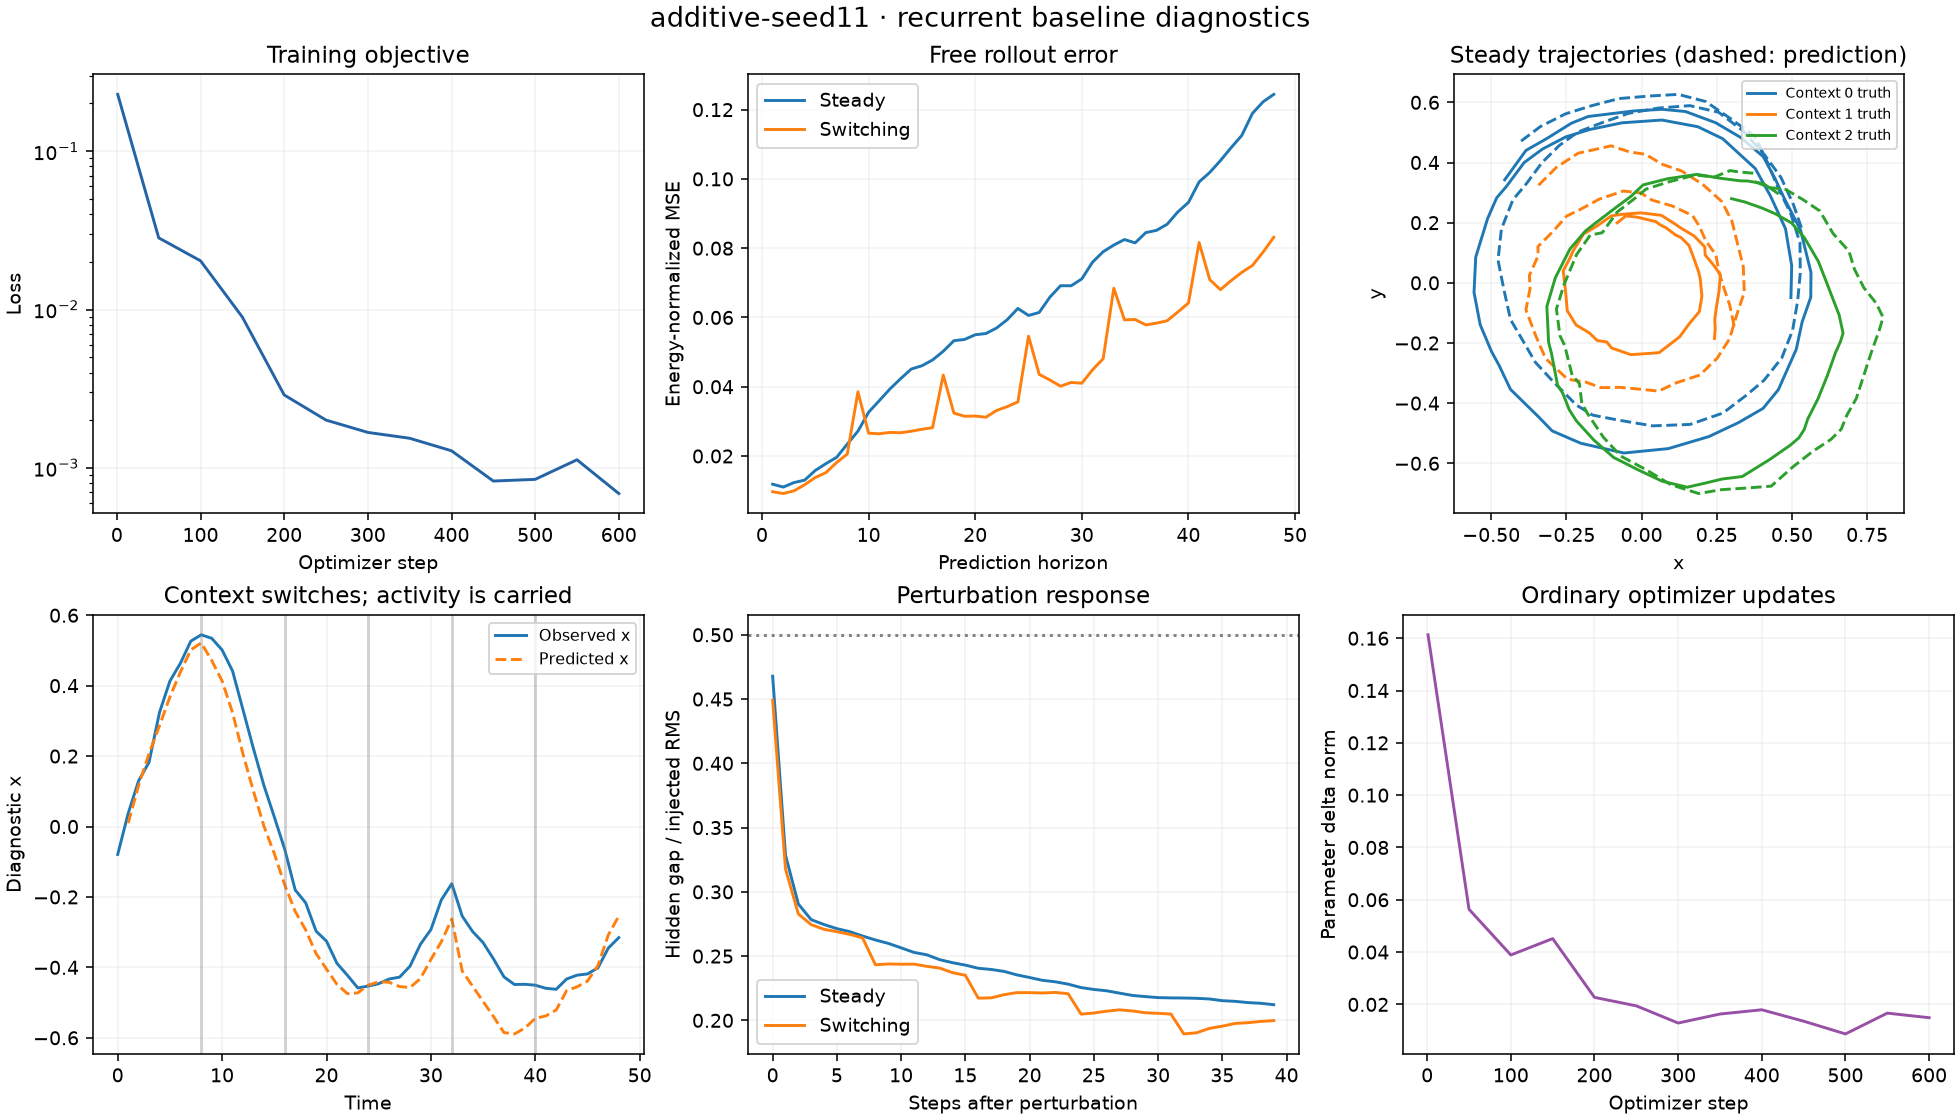
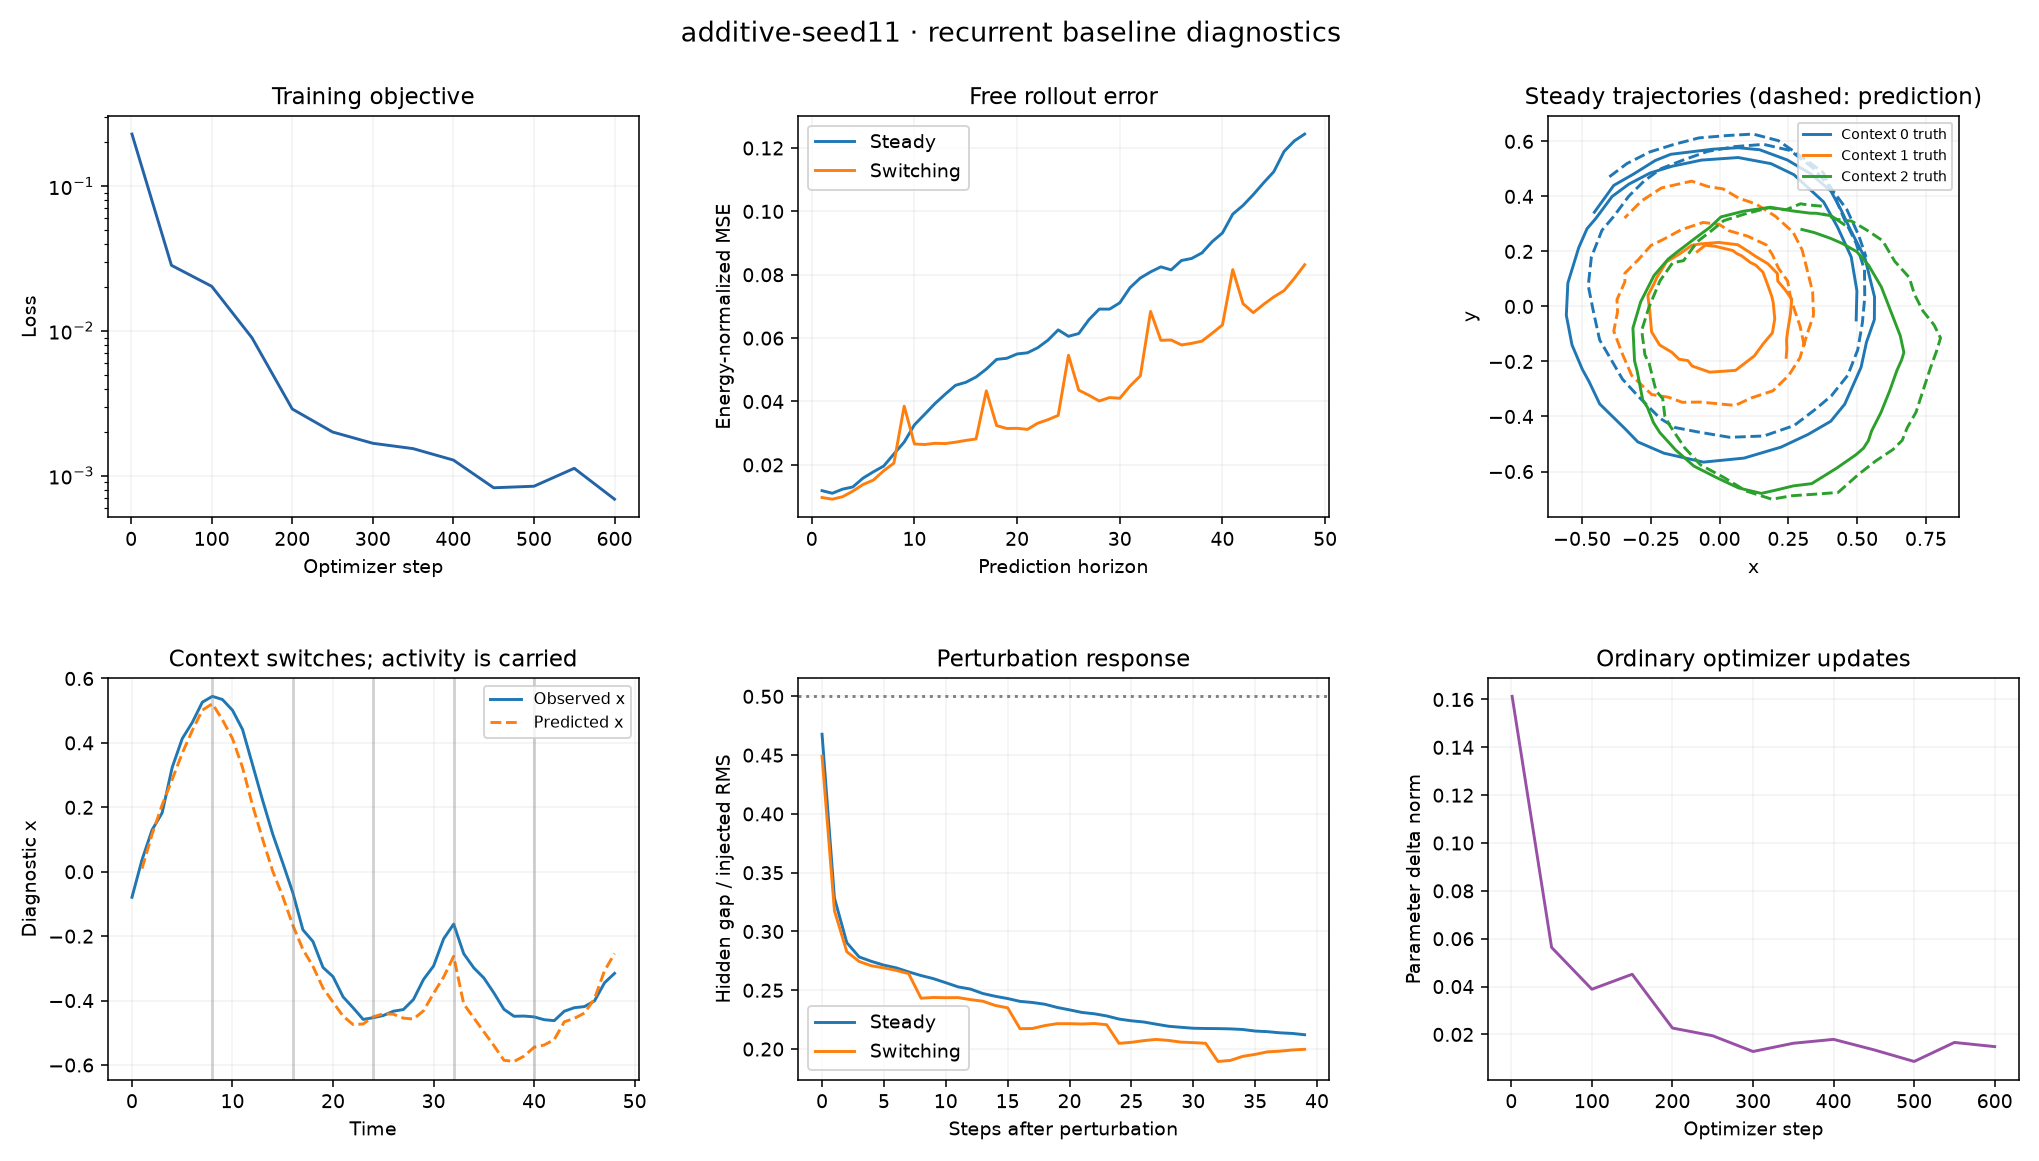
Keep diagnostic labels visible and record figure provenance

diff --git a/soam/evaluation/plots.py b/soam/evaluation/plots.py
@@ -8,7 +8,9 @@ import numpy as np
 
 
 def plot_run(path, history, steady, switching, metrics, projection):
-    fig, axes = plt.subplots(2, 3, figsize=(14, 8), constrained_layout=True)
+    fig, axes = plt.subplots(2, 3, figsize=(15, 8.5))
+    # Fixed margins avoid data-dependent equal-aspect layout clipping text.
+    fig.subplots_adjust(left=0.07, right=0.98, bottom=0.09, top=0.90, wspace=0.30, hspace=0.40)
     steps = [row["step"] for row in history]
     axes[0, 0].plot(steps, [row["loss"] for row in history], color="#2463a6")
     axes[0, 0].set(title="Training objective", xlabel="Optimizer step", ylabel="Loss", yscale="log")
@@ -58,5 +60,5 @@ def plot_run(path, history, steady, switching, metrics, projection):
     for ax in axes.flat:
         ax.grid(alpha=0.15)
     fig.suptitle(path.parent.name + " · recurrent baseline diagnostics", fontsize=14)
-    fig.savefig(path, dpi=140)
+    fig.savefig(path, dpi=140, bbox_inches="tight", pad_inches=0.15)
     plt.close(fig)

diff --git a/reports/BASELINE.md b/reports/BASELINE.md
@@ -110,6 +110,10 @@ is confined to diagnostics.
 
 ![Additive model diagnostics](substrate/additive-seed11.png)
 
+The figures were re-rendered from saved trajectories after correcting clipped labels.
+[Figure provenance](substrate/figure-provenance.json) records the renderer and image hashes;
+the numerical records remain unchanged.
+
 Additional figures: [gated](substrate/gated-seed11.png),
 [low-rank](substrate/low_rank-seed11.png), [separate cores](substrate/separate-seed11.png).
 
